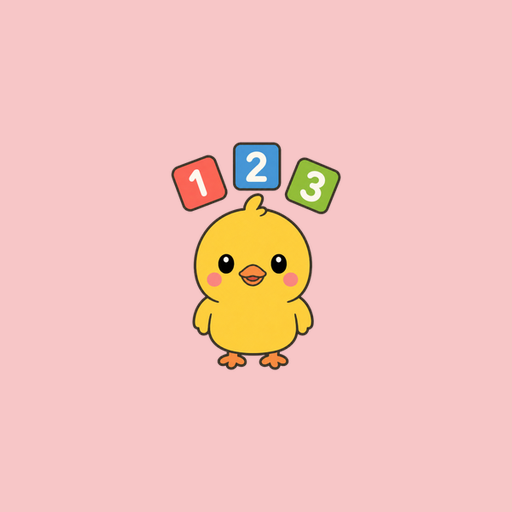
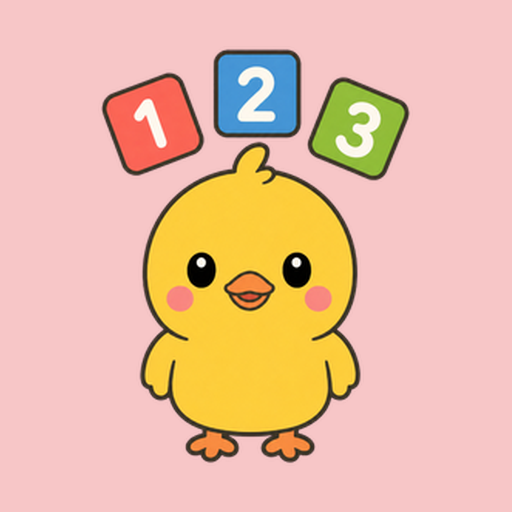
스토어 아이콘이 타일을 안 채우던 것 (tool/make_icon512.py)
그림의 실제 범위를 재서 긴 쪽이 타일의 82% 를 차지하게. 가로 33% → 62%.

Changed region(s): [[0.1875, 0.0938, 0.8125, 0.9062]]

diff --git a/tool/make_icon512.py b/tool/make_icon512.py
@@ -1,0 +1,51 @@
+# -*- coding: utf-8 -*-
+"""스토어 아이콘 512 를 다시 만든다 — 병아리가 타일을 꽉 채우게.
+
+**앞서 틀린 것**: 어댑티브 아이콘 원본(`ic_launcher_fg`)은 런처가 가장자리를 잘라내는 것을
+전제로 **이미 넉넉한 여백을 품고 있다**(그림이 가로 47%만 차지). 거기에 다시 72% 로 줄여
+얹었더니 가로 33% 짜리 콩알 병아리가 됐다. 폰에서는 런처가 가운데를 확대해 보여 주므로
+꽉 차 보여서 눈치채기 어려웠고, 스토어 목록에서만 티가 났다.
+
+**고친 방식**: 원본 여백이 얼마든 상관없이, **그림의 실제 범위를 재서** 목표 비율까지
+키운다. 삐약푸쉬 아이콘(가로 83%)과 같은 인상이 되도록 맞췄다.
+"""
+import io, os, re, sys
+sys.stdout.reconfigure(encoding="utf-8")
+from PIL import Image
+
+# 삐약푸쉬가 가로 83% · 세로 72% 다. 같은 정도로 채운다.
+TARGET = 0.82          # 긴 쪽이 타일의 몇 할을 차지할지
+APPS = [("PiyakMath", "launcher_bg")]
+
+
+def color_of(app, name):
+    p = f"C:/workAndroid/{app}/app/src/main/res/values/colors.xml"
+    s = io.open(p, encoding="utf-8").read()
+    m = re.search(r'name="%s">\s*(#[0-9A-Fa-f]{6,8})' % re.escape(name), s)
+    assert m, f"{app}: {name} 색 없음"
+    h = m.group(1).lstrip("#")
+    if len(h) == 8:
+        h = h[2:]
+    return tuple(int(h[i:i + 2], 16) for i in (0, 2, 4))
+
+
+for app, bg_name in APPS:
+    root = f"C:/workAndroid/{app}"
+    bg = color_of(app, bg_name)
+
+    fg = Image.open(f"{root}/app/src/main/res/mipmap-xxxhdpi/ic_launcher_fg.png").convert("RGBA")
+    box = fg.getchannel("A").getbbox()          # 그림이 실제로 있는 범위
+    art = fg.crop(box)
+
+    # 긴 쪽을 목표 비율에 맞춰 키운다 (원본 여백이 얼마든 결과가 같아진다)
+    scale = (512 * TARGET) / max(art.width, art.height)
+    art = art.resize((max(1, round(art.width * scale)), max(1, round(art.height * scale))),
+                     Image.LANCZOS)
+
+    canvas = Image.new("RGB", (512, 512), bg)
+    canvas.paste(art, ((512 - art.width) // 2, (512 - art.height) // 2), art)
+
+    out = f"{root}/store/업로드/icon_512.png"
+    canvas.save(out, optimize=True)
+    print(f"  {app}: 그림 {art.width}×{art.height} "
+          f"= 가로 {art.width / 512 * 100:.0f}% 세로 {art.height / 512 * 100:.0f}% (배경 {bg})")
